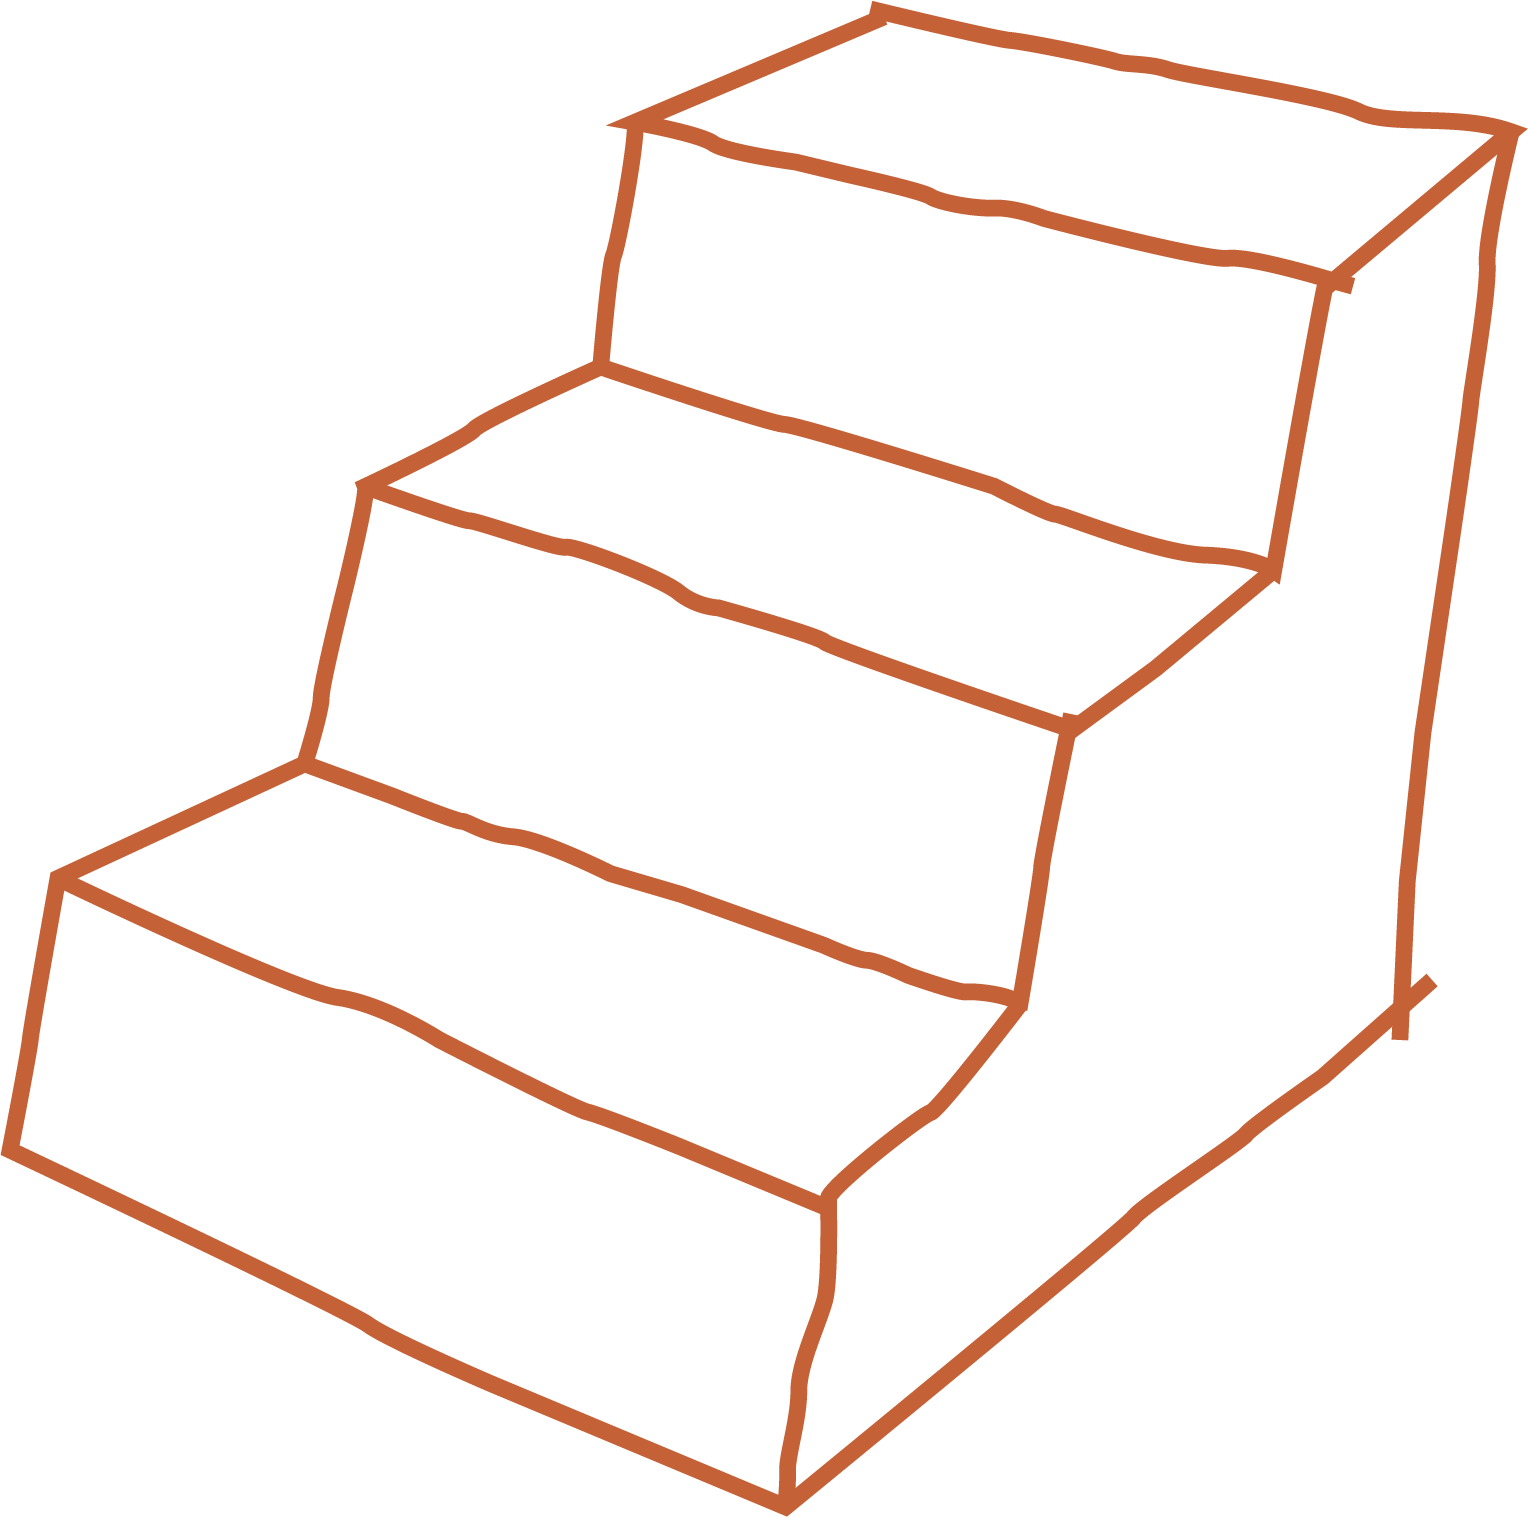
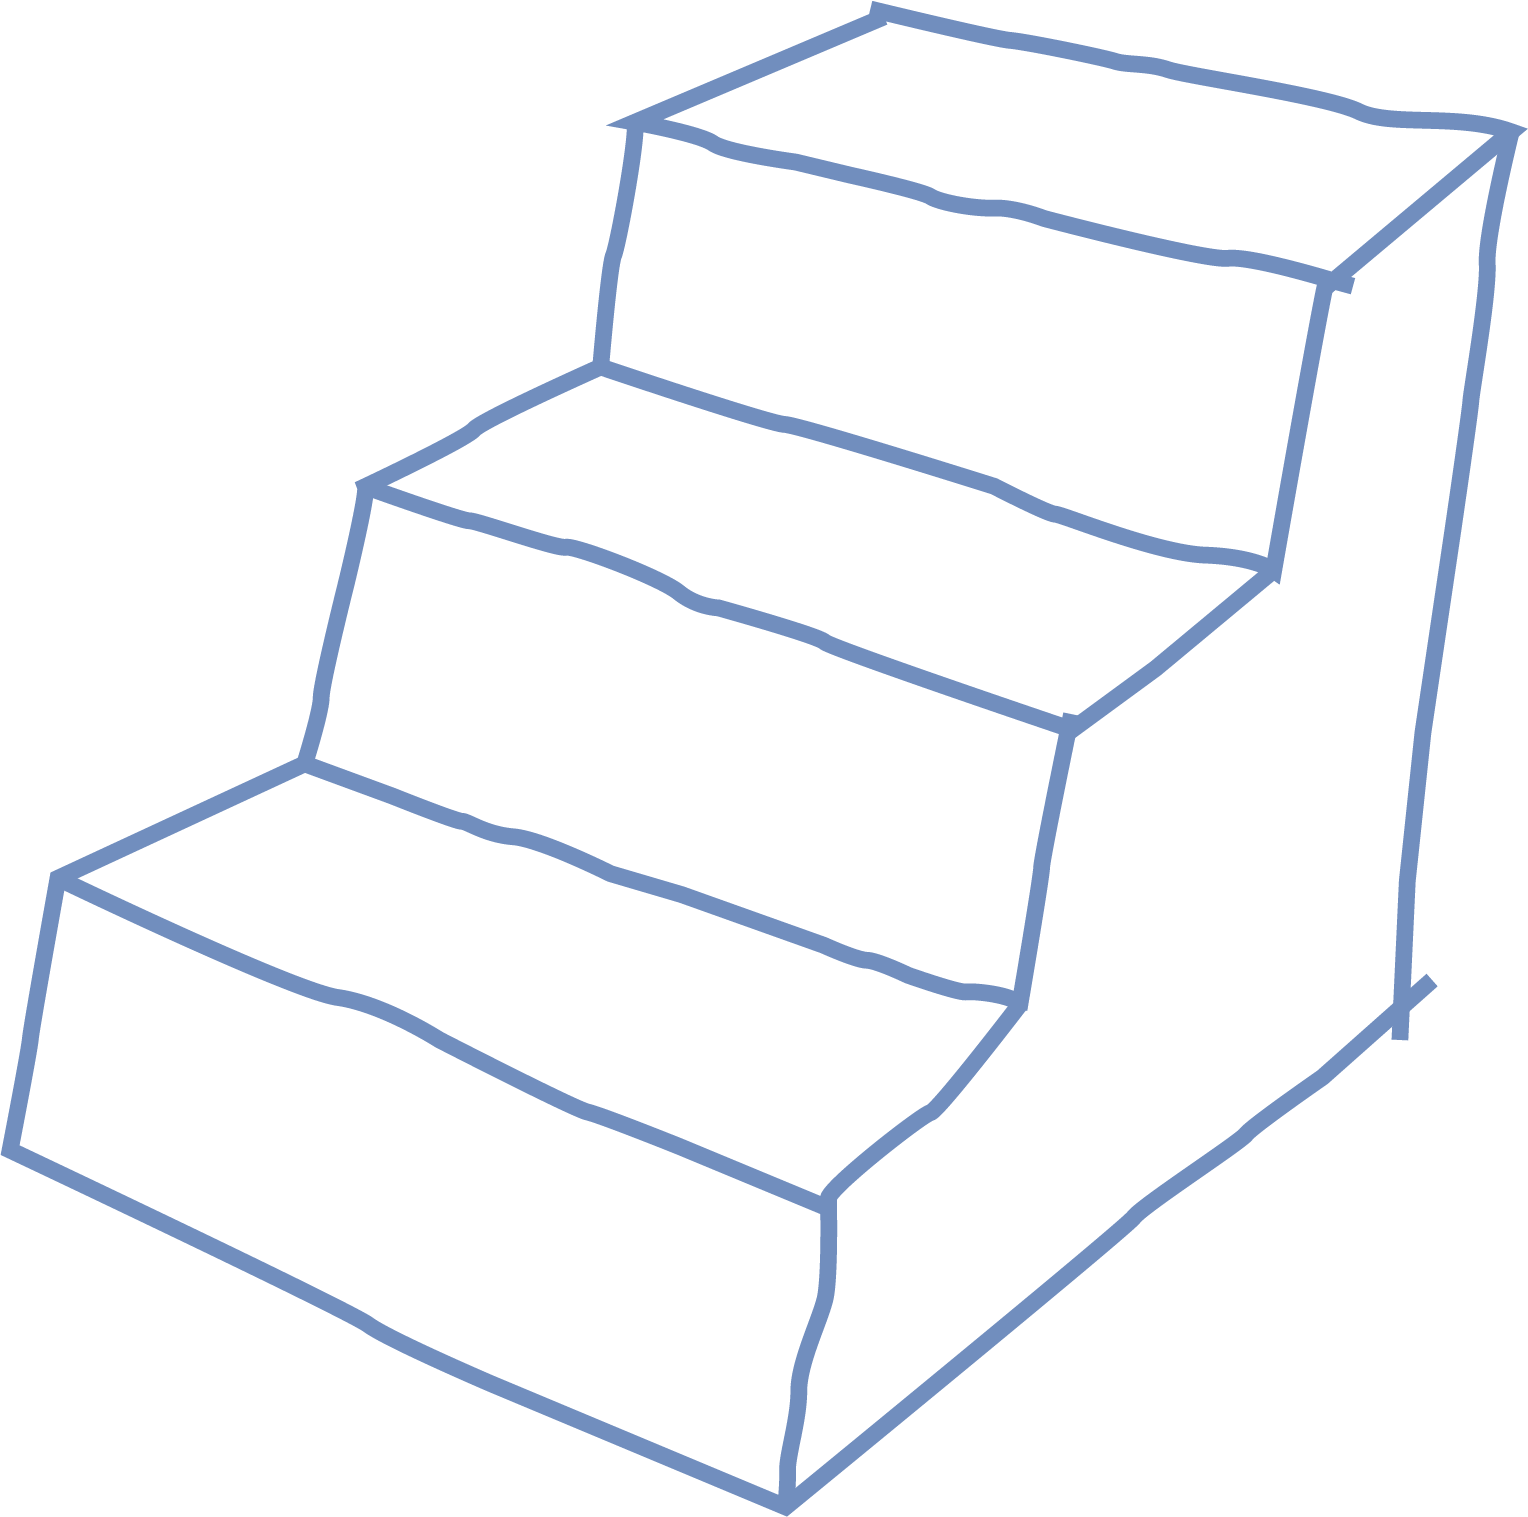
a

diff --git a/diagram.html b/diagram.html
@@ -5,11 +5,11 @@
 <link rel="stylesheet" href="https://use.typekit.net/wya2inp.css">
 <link rel="stylesheet" href="https://use.typekit.net/wya2inp.css">
 <link rel="stylesheet" href="https://use.typekit.net/wya2inp.css">
-		<link rel="shortcut icon" type="image/png" href="favicon.jpg">
+	<link rel="shortcut icon" type="image/png" href="favicon.jpg">
 <meta charset="UTF-8">
 <title>Lucien Stairs</title>
 <link href="Style.css" rel="stylesheet" type="text/css">
-<script type="text/javascript">
+ <script type="text/javascript">
 function MM_swapImgRestore() { //v3.0
   var i,x,a=document.MM_sr; for(i=0;a&&i<a.length&&(x=a[i])&&x.oSrc;i++) x.src=x.oSrc;
 }
@@ -37,11 +37,29 @@ function MM_swapImage() { //v3.0
   <a href="home.html" onMouseOut="MM_swapImgRestore()" onMouseOver="MM_swapImage('Image2','','Asset 6.png',1)"><img src="Asset 5.png" alt="" width="125" height="121" id="Image2" class="image"></a>
   <div class="header"><p class="textlinks"> <a href="about.html" class=nav> about</p></a>
 	<p class="textlinks"> <a href="words.html" class=nav>word</p></a>
-	<p class="textlinks"> <a href="diagram.html" class=nav>diagram</p></a> </div>
+	<p class="textlinks"> <a href="diagram.html" class=navalt>diagram</p></a> </div>
 	
 </header>
 <body >
+	
+<div class="container">
+	<div class="row">
+  <div class="column">
+	  <a href="diagram01.html" > <img src="diagram01.png" class="hover"> </a>
+     
+     
+  </div>
+  <div class="column">
 
-<article class="article"> </article>
+	 
+  </div>
+	 <div class="column">
+	 
+		
+  </div>
+
+  </div>
+</div>
+ 
 </body>
 </html>

diff --git a/diagram01.html b/diagram01.html
@@ -5,11 +5,11 @@
 <link rel="stylesheet" href="https://use.typekit.net/wya2inp.css">
 <link rel="stylesheet" href="https://use.typekit.net/wya2inp.css">
 <link rel="stylesheet" href="https://use.typekit.net/wya2inp.css">
-		<link rel="shortcut icon" type="image/png" href="favicon.jpg">
+	<link rel="shortcut icon" type="image/png" href="favicon.jpg">
 <meta charset="UTF-8">
 <title>Lucien Stairs</title>
 <link href="Style.css" rel="stylesheet" type="text/css">
-<script type="text/javascript">
+ <script type="text/javascript">
 function MM_swapImgRestore() { //v3.0
   var i,x,a=document.MM_sr; for(i=0;a&&i<a.length&&(x=a[i])&&x.oSrc;i++) x.src=x.oSrc;
 }
@@ -33,15 +33,14 @@ function MM_swapImage() { //v3.0
 }
 </script>
 </head>
-<header class="sticky" onLoad="MM_preloadImages('Asset 6.png')">
-  <a href="home.html" onMouseOut="MM_swapImgRestore()" onMouseOver="MM_swapImage('Image2','','Asset 6.png',1)"><img src="Asset 5.png" alt="" width="125" height="121" id="Image2" class="image"></a>
-  <div class="header"><p class="textlinks"> <a href="about.html" class=nav> about</p></a>
-	<p class="textlinks"> <a href="words.html" class=nav>word</p></a>
-	<p class="textlinks"> <a href="diagram.html" class=nav>diagram</p></a> </div>
-	
-</header>
-<body >
 
-<article class="article"> </article>
+<body >
+	
+<div class="container">
+	  <a href="diagram01.html" > <img src="diagram01.png" width="600" class="hover" > </a>
+     
+  </div>
+ <p class="diagramcaption"> This idea is inspired by thediagram.com. This is the first of many. It is a box.  </p>
+ 
 </body>
 </html>

diff --git a/Style.css b/Style.css
@@ -29,7 +29,7 @@
     font-weight: 200;
     font-style: normal;
     text-align: right;
-    color: #C26037;
+    color: #718EBD;
 	font-variant: normal;}
 
 .links {
@@ -40,28 +40,28 @@
     font-weight: 200;
     font-style: normal;
     text-align: left;
-    color: #C26037;
+    color: #718EBD;
 	font-variant: normal;}
 
 a.nav:link {
-    color: #C26037;
+    color: #718EBD;
     text-decoration: none;
 }
 a.nav:visited {
-color: #C26037;
+color: #718EBD;
 	text-decoration: none;}
 a.nav:hover {
-color: #924322;
+color: #1E4C80;
 }
 a.navalt:link {
-    color: #924322;
+    color: #1E4C80;
     text-decoration: none;
 }
 a.navalt:visited {
-color: #924322;
+color: #1E4C80;
 	text-decoration: none;}
 a.navalt:hover {
-color: #924322;
+color: #1E4C80;
 }
 .center {
     display: inline-block;
@@ -83,9 +83,20 @@ color: #924322;
     font-weight: 200;
     font-style: normal;
     font-size: 15pt;
-    color: #924322;
+    color: #1E4C80;
     margin-left: 20%;
     margin-right: 20%;
+    margin-top: 50px;
+}
+.diagramcaption {
+    background-color: #FFFFFF;
+    text-align: left;
+    font-family: turnip, serif;
+    font-weight: 200;
+    font-style: normal;
+    font-size: 15pt;
+    color: #000000;
+    margin-left: 5%;
     margin-top: 50px;
 }
 
@@ -93,7 +104,9 @@ color: #924322;
 .container {
 	width: 90%;
 	margin-left: 5%;
-	margin-right: 5%;}
+	margin-right: 5%;
+margin-top: 5%;}
+
 
 .row {
     display: flex;

diff --git a/about.html b/about.html
@@ -37,12 +37,14 @@ function MM_swapImage() { //v3.0
 <header class="sticky" onLoad="MM_preloadImages('Asset 6.png')">
   <a href="home.html" onMouseOut="MM_swapImgRestore()" onMouseOver="MM_swapImage('Image2','','Asset 6.png',1)"><img src="Asset 5.png" alt="" width="125" height="121" id="Image2" class="image"></a>
   <div class="header"><p class="textlinks"> <a href="about.html" class="navalt">about</p></a>
-	<p class="textlinks"> <a href="words.html" class="nav">words</p></a>
-	<p class="textlinks"> <a href="not words.html" class="nav">not words</p></a> </div>
+	<p class="textlinks"> <a href="words.html" class="nav">word</p></a>
+	<p class="textlinks"> <a href="diagram.html" class="nav">diagram</p></a> </div>
 	</header>
 	<body> 
+		
 
-		<p class="words">Here, I have constructed a place where I can indulge in my own hubris while feigning absolute humility. A place for contradictions and criticisms and observations and musings and redundancies and redundancies and ramblings. </p>
+		<p class="words"> </p>
+		<p class="words">Here, I have constructed a place where I can indulge in my own hubris. A place for contradictions and criticisms and observations and musings and redundancies and redundancies and ramblings. </p>
 	</body>
 	
 </html>

diff --git a/words.html b/words.html
@@ -36,8 +36,8 @@ function MM_swapImage() { //v3.0
 <header class="sticky" onLoad="MM_preloadImages('Asset 6.png')">
   <a href="home.html" onMouseOut="MM_swapImgRestore()" onMouseOver="MM_swapImage('Image2','','Asset 6.png',1)"><img src="Asset 5.png" alt="" width="125" height="121" id="Image2" class="image"></a>
   <div class="header"><p class="textlinks"> <a href="about.html" class=nav> about</p></a>
-	<p class="textlinks"> <a href="words.html" class=navalt>words</p></a>
-	<p class="textlinks"> <a href="not words.html" class=nav>not words</p> </a></div>
+	<p class="textlinks"> <a href="words.html" class=navalt>word</p></a>
+	<p class="textlinks"> <a href="diagram.html" class=nav>diagram</p> </a></div>
 	
 </header>
 <body >

diff --git a/home.html b/home.html
@@ -37,8 +37,8 @@ function MM_swapImage() { //v3.0
 <header class="sticky" onLoad="MM_preloadImages('Asset 6.png')">
   <a href="home.html" onMouseOut="MM_swapImgRestore()" onMouseOver="MM_swapImage('Image2','','Asset 6.png',1)"><img src="Asset 5.png" alt="" width="125" height="121" id="Image2" class="image"></a>
   <div class="header"><p class="textlinks"> <a href="about.html" class=nav> about</p></a>
-	<p class="textlinks"> <a href="words.html" class=nav>words</p></a>
-	<p class="textlinks"> <a href="not words.html" class=nav>not words</p> </a></div>
+	<p class="textlinks"> <a href="words.html" class=nav>word</p></a>
+	<p class="textlinks"> <a href="diagram.html" class=nav>diagram</p> </a></div>
 	
 </header>
 <body >
